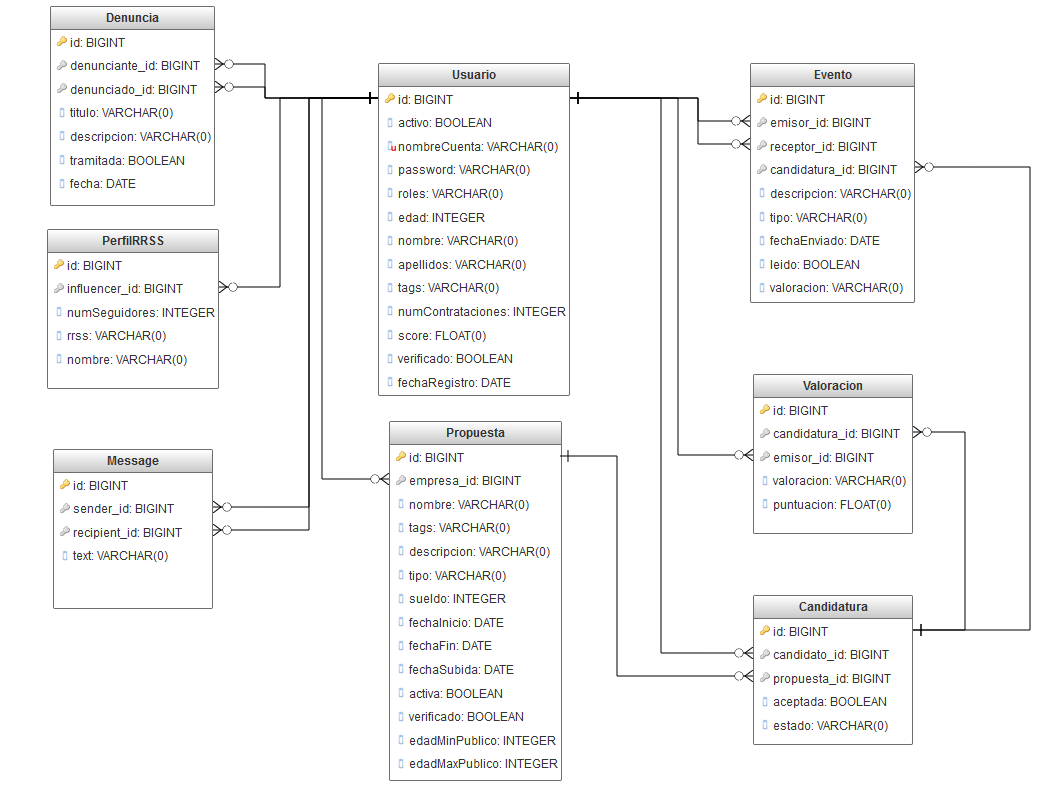
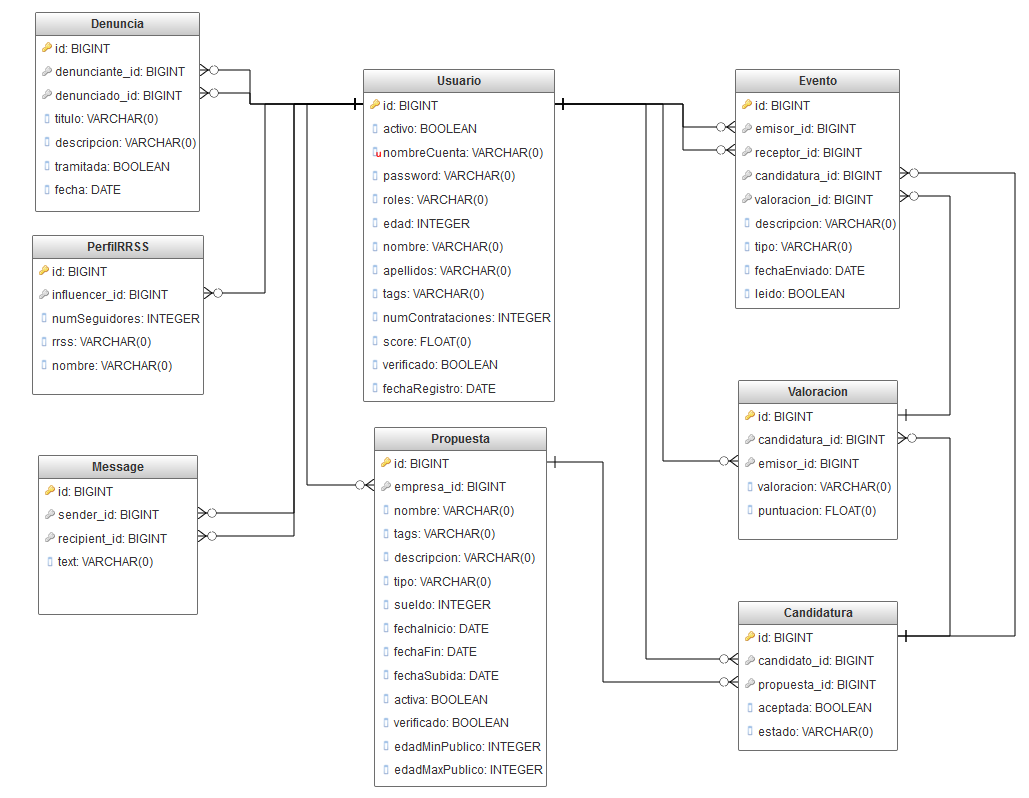
Arreglada valoracion inicio y cambio modelo.png

Changed region(s): [[0.0311, 0.0, 0.9951, 0.9925]]

diff --git a/src/main/resources/templates/inicio.html b/src/main/resources/templates/inicio.html
@@ -57,7 +57,7 @@
 				<div class="w3-container w3-pale-blue">
 					<p th:text="${mensaje.getDescripcion()}"></p>
 				</div>
-				<input th:if="${mensaje.tipo eq 'VALORACION'}" class="w3-btn w3-dark-grey w3-margin muestraValoracion" th:attr="data-id=${mensaje.id}" type="submit" value="Ver valoración"></input>
+				<input th:if="${mensaje.tipo eq 'VALORACION'}" class="w3-btn w3-dark-grey w3-margin muestraValoracion" th:attr="data-id=${mensaje.valoracion.id}" type="submit" value="Ver valoración"></input>
 				<input class="w3-btn w3-dark-grey w3-margin eliminaNotificacionInicio" th:attr="data-id=${mensaje.id}" type="submit" value="Eliminar mensaje"></input>
 			</div>
 

diff --git a/src/main/java/es/ucm/fdi/iw/control/ContratacionesController.java b/src/main/java/es/ucm/fdi/iw/control/ContratacionesController.java
@@ -163,7 +163,7 @@ public class ContratacionesController {
 		model.addAttribute("modo", "VISTA");
 		Valoracion v = entityManager.find(Valoracion.class, idValoracion);
 		model.addAttribute("valoracion", v);
-		model.addAttribute("propuesta", v.getCandidatura().getPropuesta());
+ 		model.addAttribute("propuesta", v.getCandidatura().getPropuesta());
 		model.addAttribute("idCandidatura", v.getCandidatura().getId());
 		model.addAttribute("idUsuario", ((Usuario) session.getAttribute("u")).getId());
 		return "modals/valoracion";
@@ -210,7 +210,7 @@ public class ContratacionesController {
 			enviaValoracionUsuario(valorado, v.getEmisor(),
 					"El usuario " + v.getEmisor().getNombre() + " ha valorado tu contratación en la propuesta "
 							+ v.getCandidatura().getPropuesta().getNombre() + " con " + v.getPuntuacion() + " puntos.",
-					v.getValoracion());
+					v);
 			mensaje = "Valoración insertada correctamente";
 		}
 		session.setAttribute("mensajeInfo", mensaje);
@@ -223,7 +223,7 @@ public class ContratacionesController {
 	}
 
 	@Transactional
-	private void enviaValoracionUsuario(Usuario valorado, Usuario emisor, String mensaje, String valoracion) {
+	private void enviaValoracionUsuario(Usuario valorado, Usuario emisor, String mensaje, Valoracion valoracion) {
 		// TODO Auto-generated method stub
 		Evento e = new Evento();
 		e.setEmisor(emisor);

diff --git a/src/main/java/es/ucm/fdi/iw/model/Evento.java b/src/main/java/es/ucm/fdi/iw/model/Evento.java
@@ -40,7 +40,7 @@ public class Evento {
 	private Candidatura candidatura;
 	private LocalDateTime fechaEnviado;
 	private boolean leido;
-	private String valoracion;
+	private Valoracion valoracion;
 	
 
 	/**
@@ -249,12 +249,13 @@ public class Evento {
 	public void setCandidatura(Candidatura candidatura) {
 		this.candidatura = candidatura;
 	}
-
-	public String getValoracion() {
+	
+	@ManyToOne(targetEntity = Valoracion.class)
+	public Valoracion getValoracion() {
 		return valoracion;
 	}
 
-	public void setValoracion(String valoracion) {
+	public void setValoracion(Valoracion valoracion) {
 		this.valoracion = valoracion;
 	}
 	
